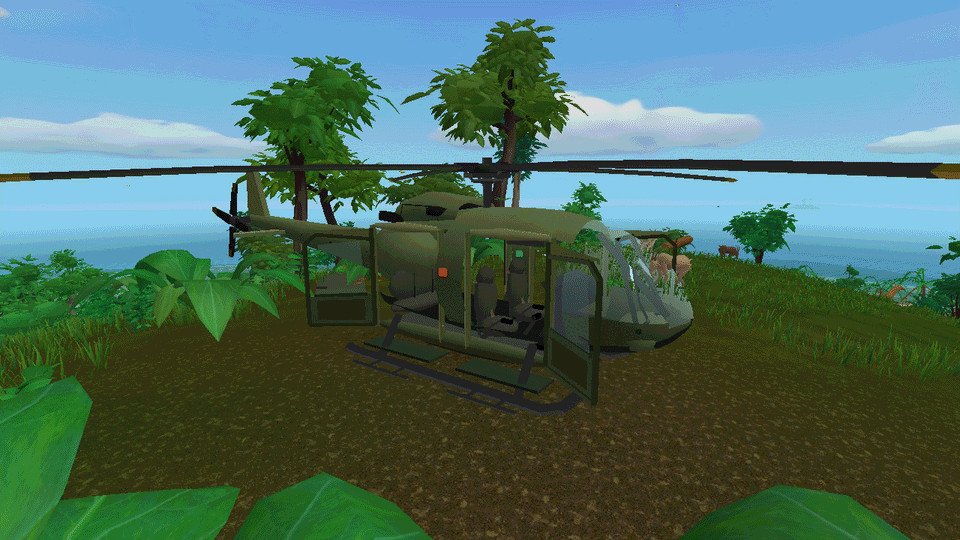
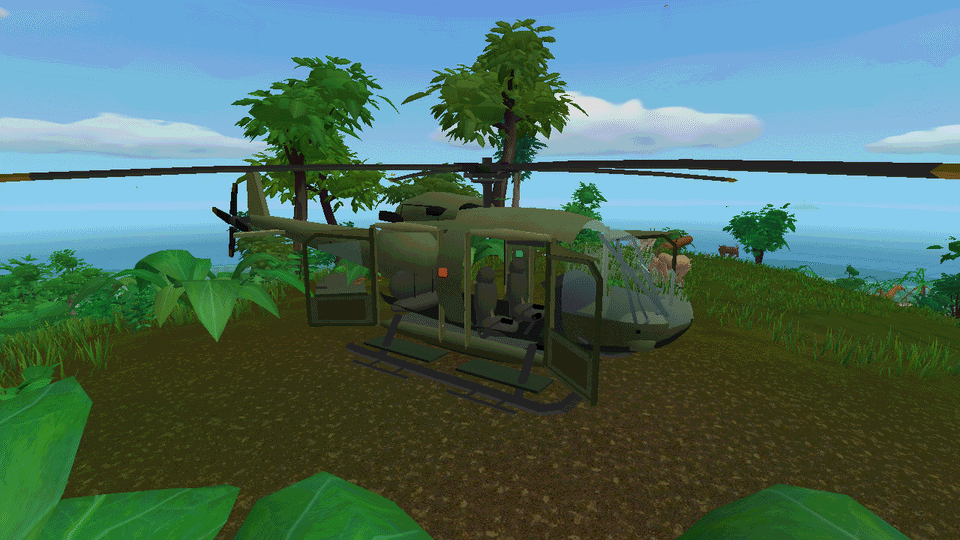
refine helicopter windshield treatment

diff --git a/game/src/HelicopterRenderer.cpp b/game/src/HelicopterRenderer.cpp
@@ -385,16 +385,18 @@ HelicopterRenderer::HelicopterRenderer(GraphicsDevice& device,const HelicopterPl
                        loftNormal(Fuselage,Fuselage.size()-1,b),color,
                        std::sin(mid)>-.08f?Surface::Glass:Surface::Paint);
     }
-    // A narrow centre mullion makes the faceted windshield read as glazing rather
-    // than an open hole when the player stands in the rear cabin.
-    beam({0,1.11f,2.67f},{0,2.12f,1.70f},.075f,oliveDark);
+    // Slim dark structural frames divide the canopy without turning it into a pale
+    // cage. The previous thick sunlit tubes dominated the glass and resembled white
+    // cracks from the ordinary three-quarter player view.
+    const Color windscreenFrame(38,43,36);
+    beam({0,1.11f,2.67f},{0,2.12f,1.70f},.048f,windscreenFrame);
     for(const float side:{-1.0f,1.0f})
-        beam({side*.57f,1.08f,2.45f},{side*.30f,2.08f,2.06f},.052f,oliveDark);
-    beam({-.31f,2.08f,2.06f},{.31f,2.08f,2.06f},.050f,oliveDark);
+        beam({side*.57f,1.08f,2.45f},{side*.30f,2.08f,2.06f},.035f,windscreenFrame);
+    beam({-.31f,2.08f,2.06f},{.31f,2.08f,2.06f},.034f,windscreenFrame);
     // A rounded chin fairing and slim lower windscreen rail keep the otherwise
     // transparent nose from collapsing into a pointed glass bubble at eye level.
     ellipsoid({0,.87f,2.36f},{.57f,.23f,.36f},4,16,olive);
-    beam({-.59f,1.03f,2.47f},{.59f,1.03f,2.47f},.055f,oliveDark);
+    beam({-.59f,1.03f,2.47f},{.59f,1.03f,2.47f},.045f,windscreenFrame);
 
     // Parked paired wipers give the broad canopy a familiar mechanical scale cue.
     // Their articulated arms sit just ahead of the generated glass instead of being
@@ -410,9 +412,12 @@ HelicopterRenderer::HelicopterRenderer(GraphicsDevice& device,const HelicopterPl
         beam(tip-Vector3(.12f*side,.055f,-.018f),
              tip+Vector3(.12f*side,.055f,-.018f),.014f,rubber,Surface::Rubber);
 
-        const Color reflection(151,196,204,38);
-        quad({side*.11f,1.77f,2.194f},{side*.22f,1.80f,2.205f},
-             {side*.47f,1.55f,2.326f},{side*.39f,1.50f,2.350f},
+        // A former broad cyan quadrilateral crossed several canopy facets and read
+        // as a white crack in the windshield. Keep one narrow, low-alpha sky glint
+        // per pane; the curved glass and frame now carry the main surface read.
+        const Color reflection(128,151,148,18);
+        quad({side*.18f,1.755f,2.198f},{side*.225f,1.765f,2.205f},
+             {side*.395f,1.585f,2.314f},{side*.360f,1.565f,2.326f},
              reflection,Surface::Glass);
     }
 
@@ -1032,6 +1037,7 @@ void HelicopterRenderer::Draw(const Matrix& view,const Matrix& projection,const 
     device_.DrawPrimitives(PrimitiveType::TriangleList,0,triangles_-glassTriangles_);
     device_.setBlendStateProperty(BlendState::AlphaBlend);
     device_.setDepthStencilStateProperty(DepthStencilState::DepthRead);
+    device_.setRasterizerStateProperty(RasterizerState::CullCounterClockwise);
     device_.SetVertexBuffer(glassVertices_.get());effect_->Apply();
     device_.DrawPrimitives(PrimitiveType::TriangleList,0,glassTriangles_);drawCalls_=2;
 }

diff --git a/PLAN.md b/PLAN.md
@@ -20,6 +20,22 @@ Status markers:
 - `[~]` in progress
 - `[!]` blocked or degraded, with the reason written next to the item
 
+## Latest helicopter glazing pass — restrained frames and one-sided canopy surface
+
+The current README-gallery audit selected the canopy treatment rather than adding more aircraft
+geometry. Broad translucent cyan ribbons and thick sunlit frame tubes crossed several facets and
+read as white windshield cracks at the ordinary three-quarter player view. Each pane now carries
+only one narrow low-alpha neutral glint; the centre mullion, A-pillars, crown rail and lower rail
+are slimmer and use a darker structural finish. The glass batch culls its hidden reverse winding,
+avoiding needless closed-canopy overdraw while leaving the opaque aircraft unchanged.
+
+Geometry, buffers, two-draw budget, placement, collision, four open entries, controls and stationary
+rotors are unchanged. `IslandHelicopterLayoutTests` passes. Inspected native exterior
+`20261017T151140.327090Z-helicopter` passes at 311 colour bins, 53.91 luminance deviation and
+235.08 spatial contrast; interior guard `20261017T150909.348348Z-helicopter-inside` retains the
+instrument panel, controls and open-door sightlines. The accepted exterior also replaces the
+helicopter frame in the hash-gated README gallery.
+
 ## Latest README gallery pass — current world, landmarks and wildlife
 
 The release-facing README now uses a current 2026-10-17 overview and two compact galleries rather

diff --git a/docs/helicopter.md b/docs/helicopter.md
@@ -549,3 +549,17 @@ guard `20261016T064338.573674Z-helicopter-inside` passes at 183/21.05/64.31 and 
 controls, seats and exits. Inspected Chrome 155/SwiftShader
 `build/browser-software/20261016T064457.307779Z-chrome-helicopter` passes exterior and interior,
 each with 60 finite positive intervals, GL error zero, a live context and kernel `[]`.
+
+## Restrained windshield framing — 2026-10-17
+
+The gallery review found that the canopy's broad cyan reflection quads and thick sunlit mullions
+looked like white cracks across the glass. Reflection marks are now narrow, neutral and low-alpha;
+the centre divider, A-pillars and upper/lower rails retain their structural layout with smaller
+sections and a darker finish. The transparent batch now culls its hidden reverse winding, reducing
+closed-canopy overdraw without changing the two-draw renderer or opaque geometry.
+
+Native exterior `20261017T151140.327090Z-helicopter` was inspected and passes at 311 colour bins,
+53.91 luminance deviation and 235.08 spatial contrast. Interior
+`20261017T150909.348348Z-helicopter-inside` keeps the dashboard, cyclics, collectives, pedals and
+open exits visible. Placement, collisions, entry corridors, non-flying role and rotor state are
+unchanged.
